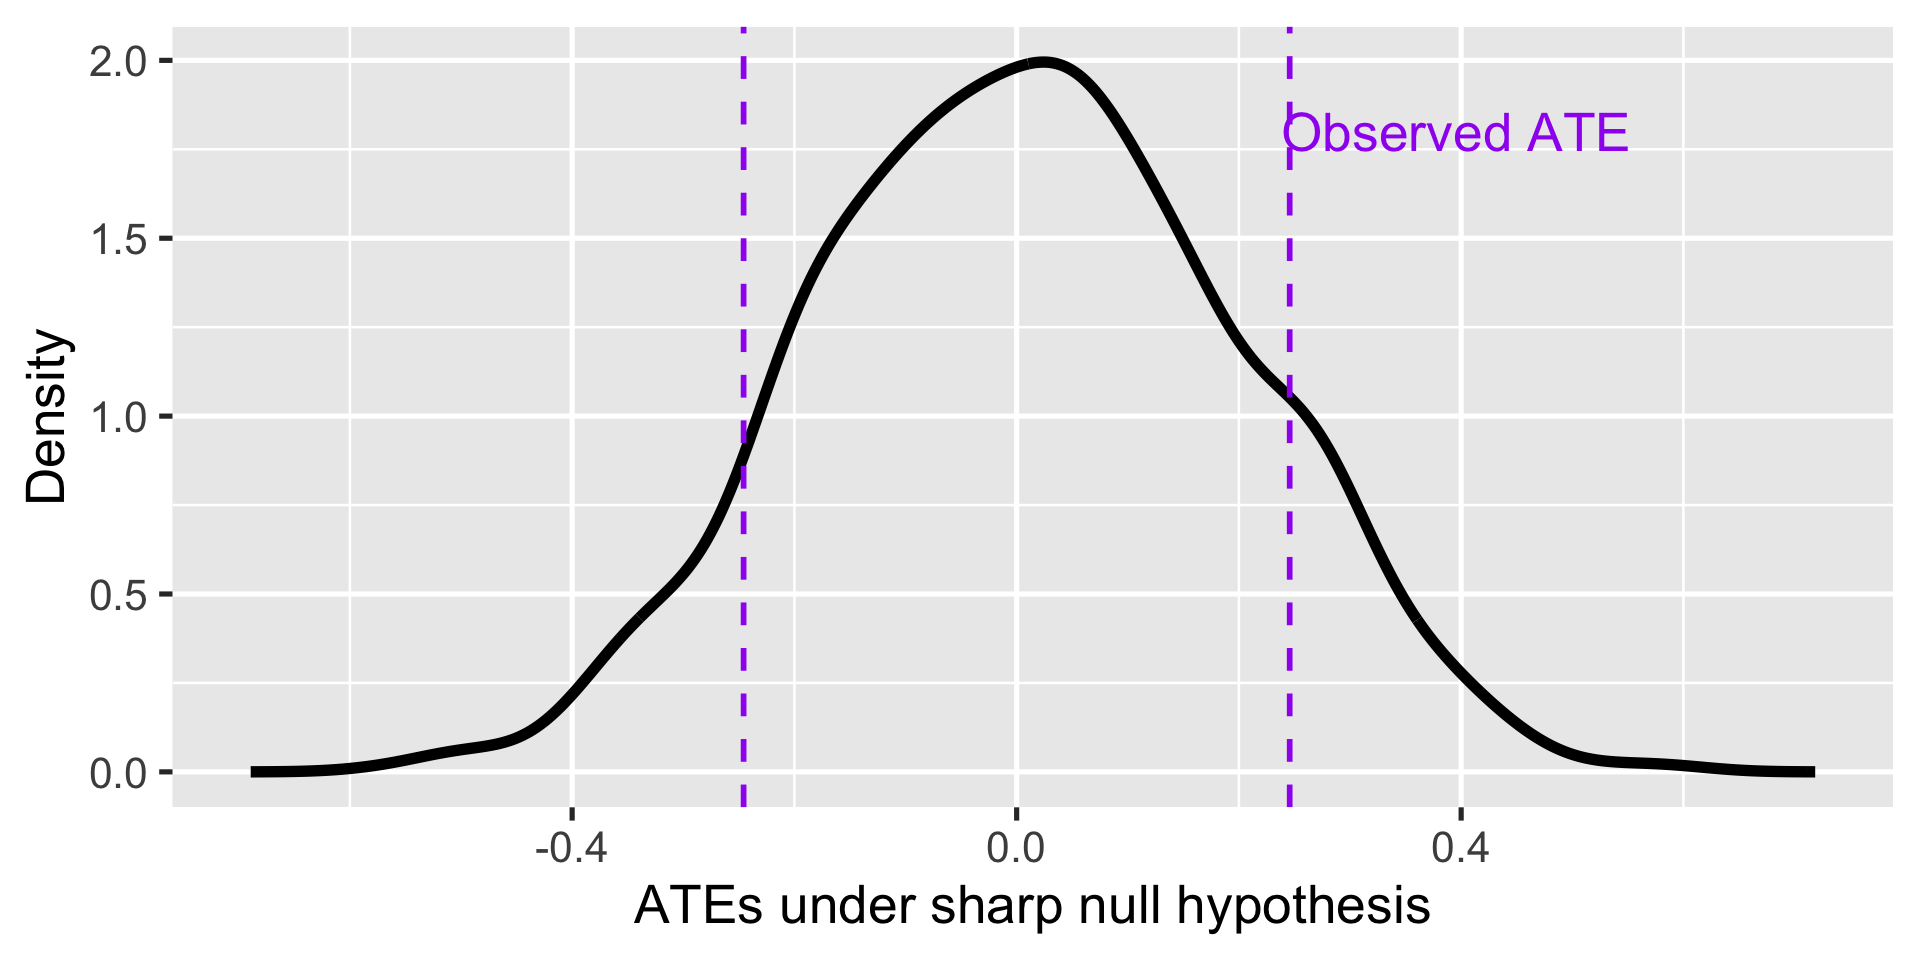
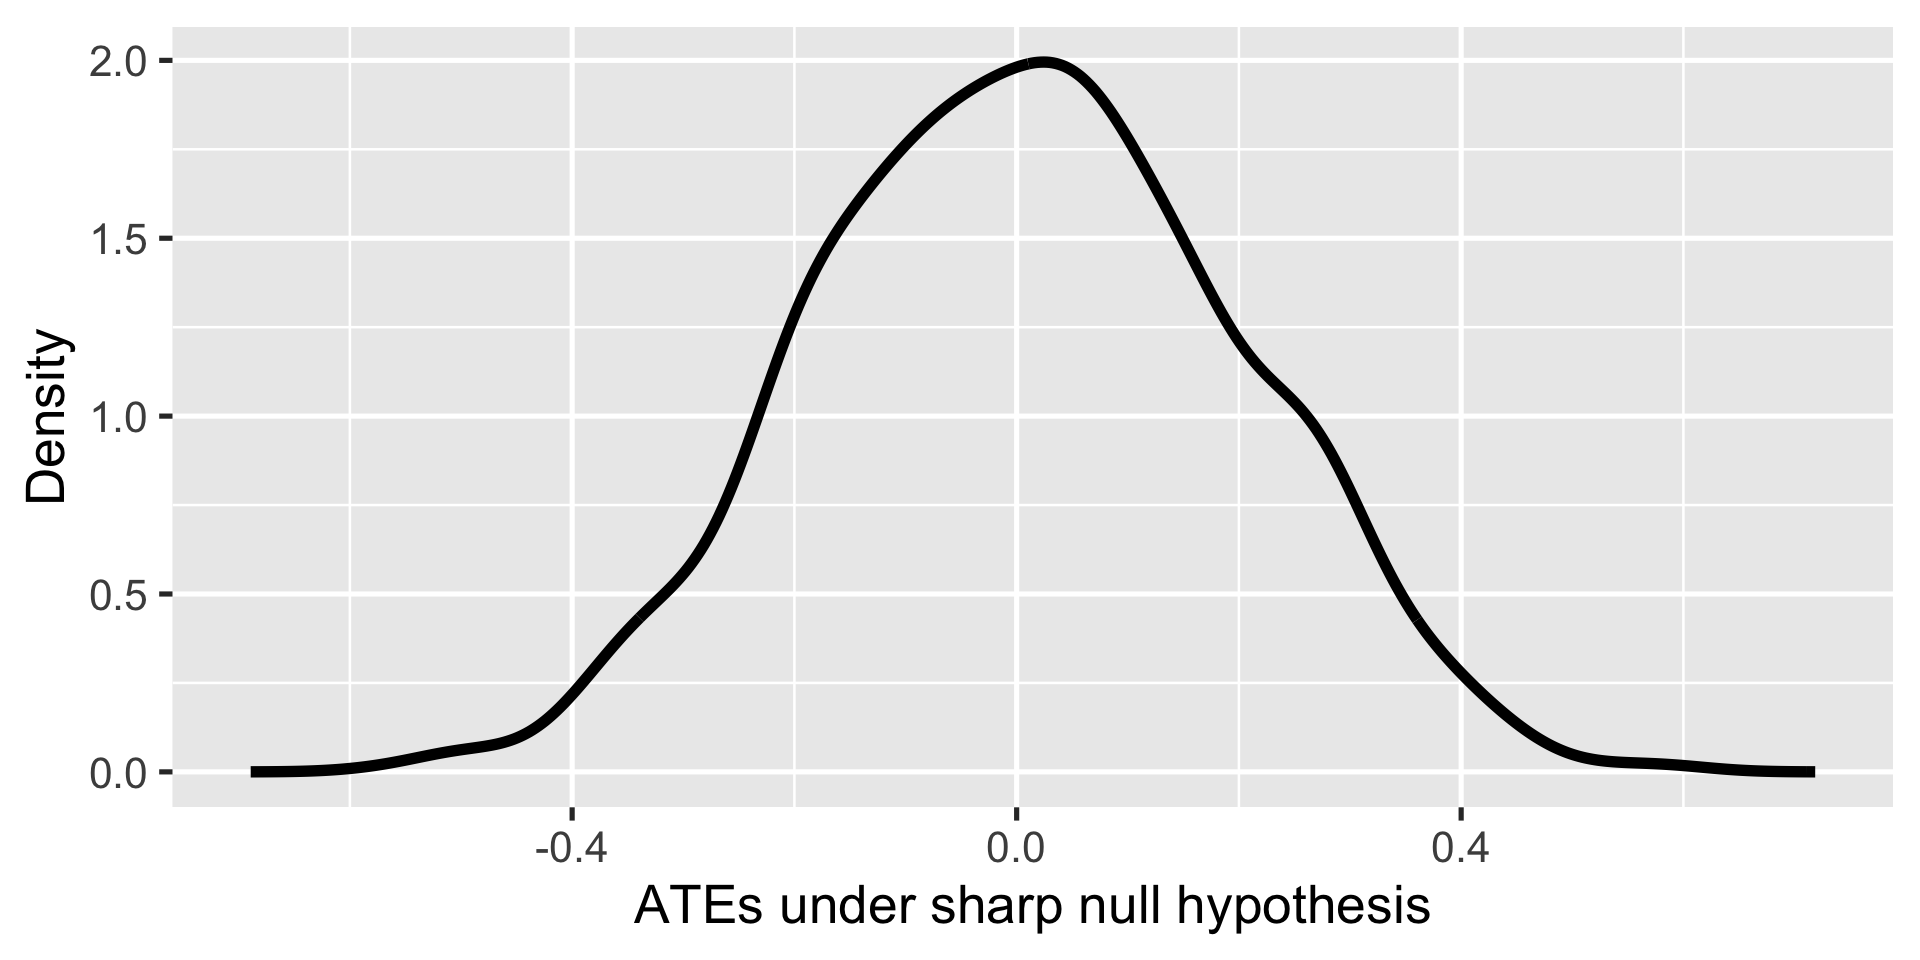
W9 slides ready

Changed region(s): [[0.6562, 0.0938, 0.8438, 0.1562]]

diff --git a/slides/week9.html b/slides/week9.html
@@ -234,7 +234,7 @@
 <li>Random assignment</li>
 <li>Observational studies</li>
 <li>Quasi-experiments (if we have time)</li>
-<li>Lab</li>
+<li><strong>Lab:</strong> Causal inference in experiments vs.&nbsp;observational studies</li>
 </ul>
 </section>
 
@@ -465,84 +465,63 @@ Unobserved
 </table>
 </div>
 </div>
-<div class="fragment">
-<p>Assign condition <span class="math inline">\(D_i\)</span> (0: control, 1: treatment)</p>
-</div>
 </section>
 <section id="challenge-2" class="slide level2">
 <h2>Challenge</h2>
 <div class="cell">
 <div class="cell-output-display">
-<table class="caption-top" style="width:100%;">
+<table class="caption-top">
 <colgroup>
-<col style="width: 16%">
-<col style="width: 16%">
-<col style="width: 16%">
-<col style="width: 16%">
-<col style="width: 16%">
-<col style="width: 16%">
+<col style="width: 25%">
+<col style="width: 25%">
+<col style="width: 25%">
+<col style="width: 25%">
 </colgroup>
 <thead>
 <tr class="header">
 <th data-quarto-table-cell-role="th" style="text-align: left; empty-cells: hide; border-bottom: hidden;"></th>
 <th colspan="3" data-quarto-table-cell-role="th" style="text-align: center; border-bottom: hidden; padding-bottom: 0; padding-left: 3px; padding-right: 3px;"><div style="border-bottom: 1px solid #ddd; padding-bottom: 5px; ">
-Unobserved
-</div></th>
-<th colspan="2" data-quarto-table-cell-role="th" style="text-align: center; border-bottom: hidden; padding-bottom: 0; padding-left: 3px; padding-right: 3px;"><div style="border-bottom: 1px solid #ddd; padding-bottom: 5px; ">
-Observed
+<span style="color:gray">Unobserved</span>
 </div></th>
 </tr>
 <tr class="even">
 <th style="text-align: left;" data-quarto-table-cell-role="th">ID</th>
-<th style="text-align: right;" data-quarto-table-cell-role="th">\(Y_i(1)\)</th>
-<th style="text-align: right;" data-quarto-table-cell-role="th">\(Y_i(0)\)</th>
-<th style="text-align: right;" data-quarto-table-cell-role="th">\(\tau_i\)</th>
-<th style="text-align: right;" data-quarto-table-cell-role="th">\(D_i\)</th>
-<th style="text-align: right;" data-quarto-table-cell-role="th">\(Y_i\)</th>
+<th style="text-align: left;" data-quarto-table-cell-role="th"><span style="     color: gray !important;">\(Y_i(1)\)</span></th>
+<th style="text-align: left;" data-quarto-table-cell-role="th"><span style="     color: gray !important;">\(Y_i(0)\)</span></th>
+<th style="text-align: left;" data-quarto-table-cell-role="th"><span style="     color: gray !important;">\(\tau_i\)</span></th>
 </tr>
 </thead>
 <tbody>
 <tr class="odd">
 <td style="text-align: left;">1</td>
-<td style="text-align: right;">0</td>
-<td style="text-align: right;">0</td>
-<td style="text-align: right;">0</td>
-<td style="text-align: right;">1</td>
-<td style="text-align: right;">0</td>
+<td style="text-align: left;"><span style="     color: gray !important;">0</span></td>
+<td style="text-align: left;"><span style="     color: gray !important;">0</span></td>
+<td style="text-align: left;"><span style="     color: gray !important;">0</span></td>
 </tr>
 <tr class="even">
 <td style="text-align: left;">2</td>
-<td style="text-align: right;">1</td>
-<td style="text-align: right;">0</td>
-<td style="text-align: right;">1</td>
-<td style="text-align: right;">0</td>
-<td style="text-align: right;">0</td>
+<td style="text-align: left;"><span style="     color: gray !important;">1</span></td>
+<td style="text-align: left;"><span style="     color: gray !important;">0</span></td>
+<td style="text-align: left;"><span style="     color: gray !important;">1</span></td>
 </tr>
 <tr class="odd">
 <td style="text-align: left;">3</td>
-<td style="text-align: right;">1</td>
-<td style="text-align: right;">0</td>
-<td style="text-align: right;">1</td>
-<td style="text-align: right;">1</td>
-<td style="text-align: right;">1</td>
+<td style="text-align: left;"><span style="     color: gray !important;">1</span></td>
+<td style="text-align: left;"><span style="     color: gray !important;">0</span></td>
+<td style="text-align: left;"><span style="     color: gray !important;">1</span></td>
 </tr>
 <tr class="even">
 <td style="text-align: left;">4</td>
-<td style="text-align: right;">1</td>
-<td style="text-align: right;">1</td>
-<td style="text-align: right;">0</td>
-<td style="text-align: right;">0</td>
-<td style="text-align: right;">1</td>
+<td style="text-align: left;"><span style="     color: gray !important;">1</span></td>
+<td style="text-align: left;"><span style="     color: gray !important;">1</span></td>
+<td style="text-align: left;"><span style="     color: gray !important;">0</span></td>
 </tr>
 </tbody>
 </table>
 </div>
 </div>
 <div class="fragment">
-<p>To know <span class="math inline">\(E[\tau_i]\)</span> we need <span class="math inline">\((Y_i(1) - Y_i(0))\)</span></p>
-</div>
-<div class="fragment">
-<p>But we only observe one at a time for each unit</p>
+<p>Assign condition <span class="math inline">\(D_i\)</span> (0: control, 1: treatment)</p>
 </div>
 </section>
 <section id="challenge-3" class="slide level2">
@@ -562,7 +541,7 @@ Observed
 <tr class="header">
 <th data-quarto-table-cell-role="th" style="text-align: left; empty-cells: hide; border-bottom: hidden;"></th>
 <th colspan="3" data-quarto-table-cell-role="th" style="text-align: center; border-bottom: hidden; padding-bottom: 0; padding-left: 3px; padding-right: 3px;"><div style="border-bottom: 1px solid #ddd; padding-bottom: 5px; ">
-Unobserved
+<span style="color:gray">Unobserved</span>
 </div></th>
 <th colspan="2" data-quarto-table-cell-role="th" style="text-align: center; border-bottom: hidden; padding-bottom: 0; padding-left: 3px; padding-right: 3px;"><div style="border-bottom: 1px solid #ddd; padding-bottom: 5px; ">
 Observed
@@ -570,9 +549,9 @@ Observed
 </tr>
 <tr class="even">
 <th style="text-align: left;" data-quarto-table-cell-role="th">ID</th>
-<th style="text-align: right;" data-quarto-table-cell-role="th">\(Y_i(1)\)</th>
-<th style="text-align: right;" data-quarto-table-cell-role="th">\(Y_i(0)\)</th>
-<th style="text-align: right;" data-quarto-table-cell-role="th">\(\tau_i\)</th>
+<th style="text-align: left;" data-quarto-table-cell-role="th"><span style="     color: gray !important;">\(Y_i(1)\)</span></th>
+<th style="text-align: left;" data-quarto-table-cell-role="th"><span style="     color: gray !important;">\(Y_i(0)\)</span></th>
+<th style="text-align: left;" data-quarto-table-cell-role="th"><span style="     color: gray !important;">\(\tau_i\)</span></th>
 <th style="text-align: right;" data-quarto-table-cell-role="th">\(D_i\)</th>
 <th style="text-align: right;" data-quarto-table-cell-role="th">\(Y_i\)</th>
 </tr>
@@ -580,33 +559,33 @@ Observed
 <tbody>
 <tr class="odd">
 <td style="text-align: left;">1</td>
-<td style="text-align: right;">0</td>
-<td style="text-align: right;">0</td>
-<td style="text-align: right;">0</td>
+<td style="text-align: left;"><span style="     color: gray !important;">0</span></td>
+<td style="text-align: left;"><span style="     color: gray !important;">0</span></td>
+<td style="text-align: left;"><span style="     color: gray !important;">0</span></td>
 <td style="text-align: right;">1</td>
 <td style="text-align: right;">0</td>
 </tr>
 <tr class="even">
 <td style="text-align: left;">2</td>
-<td style="text-align: right;">1</td>
-<td style="text-align: right;">0</td>
-<td style="text-align: right;">1</td>
+<td style="text-align: left;"><span style="     color: gray !important;">1</span></td>
+<td style="text-align: left;"><span style="     color: gray !important;">0</span></td>
+<td style="text-align: left;"><span style="     color: gray !important;">1</span></td>
 <td style="text-align: right;">0</td>
 <td style="text-align: right;">0</td>
 </tr>
 <tr class="odd">
 <td style="text-align: left;">3</td>
-<td style="text-align: right;">1</td>
-<td style="text-align: right;">0</td>
-<td style="text-align: right;">1</td>
+<td style="text-align: left;"><span style="     color: gray !important;">1</span></td>
+<td style="text-align: left;"><span style="     color: gray !important;">0</span></td>
+<td style="text-align: left;"><span style="     color: gray !important;">1</span></td>
 <td style="text-align: right;">1</td>
 <td style="text-align: right;">1</td>
 </tr>
 <tr class="even">
 <td style="text-align: left;">4</td>
-<td style="text-align: right;">1</td>
-<td style="text-align: right;">1</td>
-<td style="text-align: right;">0</td>
+<td style="text-align: left;"><span style="     color: gray !important;">1</span></td>
+<td style="text-align: left;"><span style="     color: gray !important;">1</span></td>
+<td style="text-align: left;"><span style="     color: gray !important;">0</span></td>
 <td style="text-align: right;">0</td>
 <td style="text-align: right;">1</td>
 </tr>
@@ -614,11 +593,13 @@ Observed
 </table>
 </div>
 </div>
-<p>This is the <strong>FUNDAMENTAL PROBLEM OF CAUSAL INFERENCE</strong></p>
-
-<aside><div>
-<p>The term comes from: Holland, Paul W. 1986. <a href="https://doi.org/10.2307/2289064">“Statistics and Causal Inference.”</a> <em>Journal of the American Statistical Association</em> 81 (396): 945-960</p>
-</div></aside></section>
+<div class="fragment">
+<p>To know <span class="math inline">\(E[\tau_i]\)</span> we need <span class="math inline">\((Y_i(1) - Y_i(0))\)</span></p>
+</div>
+<div class="fragment">
+<p>But we only observe one at a time for each unit</p>
+</div>
+</section>
 <section id="challenge-4" class="slide level2">
 <h2>Challenge</h2>
 <div class="cell">
@@ -636,7 +617,7 @@ Observed
 <tr class="header">
 <th data-quarto-table-cell-role="th" style="text-align: left; empty-cells: hide; border-bottom: hidden;"></th>
 <th colspan="3" data-quarto-table-cell-role="th" style="text-align: center; border-bottom: hidden; padding-bottom: 0; padding-left: 3px; padding-right: 3px;"><div style="border-bottom: 1px solid #ddd; padding-bottom: 5px; ">
-Unobserved
+<span style="color:gray">Unobserved</span>
 </div></th>
 <th colspan="2" data-quarto-table-cell-role="th" style="text-align: center; border-bottom: hidden; padding-bottom: 0; padding-left: 3px; padding-right: 3px;"><div style="border-bottom: 1px solid #ddd; padding-bottom: 5px; ">
 Observed
@@ -644,9 +625,9 @@ Observed
 </tr>
 <tr class="even">
 <th style="text-align: left;" data-quarto-table-cell-role="th">ID</th>
-<th style="text-align: right;" data-quarto-table-cell-role="th">\(Y_i(1)\)</th>
-<th style="text-align: right;" data-quarto-table-cell-role="th">\(Y_i(0)\)</th>
-<th style="text-align: right;" data-quarto-table-cell-role="th">\(\tau_i\)</th>
+<th style="text-align: left;" data-quarto-table-cell-role="th"><span style="     color: gray !important;">\(Y_i(1)\)</span></th>
+<th style="text-align: left;" data-quarto-table-cell-role="th"><span style="     color: gray !important;">\(Y_i(0)\)</span></th>
+<th style="text-align: left;" data-quarto-table-cell-role="th"><span style="     color: gray !important;">\(\tau_i\)</span></th>
 <th style="text-align: right;" data-quarto-table-cell-role="th">\(D_i\)</th>
 <th style="text-align: right;" data-quarto-table-cell-role="th">\(Y_i\)</th>
 </tr>
@@ -654,33 +635,107 @@ Observed
 <tbody>
 <tr class="odd">
 <td style="text-align: left;">1</td>
-<td style="text-align: right;">0</td>
-<td style="text-align: right;">0</td>
-<td style="text-align: right;">0</td>
+<td style="text-align: left;"><span style="     color: gray !important;">0</span></td>
+<td style="text-align: left;"><span style="     color: gray !important;">0</span></td>
+<td style="text-align: left;"><span style="     color: gray !important;">0</span></td>
 <td style="text-align: right;">1</td>
 <td style="text-align: right;">0</td>
 </tr>
 <tr class="even">
 <td style="text-align: left;">2</td>
-<td style="text-align: right;">1</td>
-<td style="text-align: right;">0</td>
-<td style="text-align: right;">1</td>
+<td style="text-align: left;"><span style="     color: gray !important;">1</span></td>
+<td style="text-align: left;"><span style="     color: gray !important;">0</span></td>
+<td style="text-align: left;"><span style="     color: gray !important;">1</span></td>
 <td style="text-align: right;">0</td>
 <td style="text-align: right;">0</td>
 </tr>
 <tr class="odd">
 <td style="text-align: left;">3</td>
-<td style="text-align: right;">1</td>
-<td style="text-align: right;">0</td>
-<td style="text-align: right;">1</td>
+<td style="text-align: left;"><span style="     color: gray !important;">1</span></td>
+<td style="text-align: left;"><span style="     color: gray !important;">0</span></td>
+<td style="text-align: left;"><span style="     color: gray !important;">1</span></td>
 <td style="text-align: right;">1</td>
 <td style="text-align: right;">1</td>
 </tr>
 <tr class="even">
 <td style="text-align: left;">4</td>
+<td style="text-align: left;"><span style="     color: gray !important;">1</span></td>
+<td style="text-align: left;"><span style="     color: gray !important;">1</span></td>
+<td style="text-align: left;"><span style="     color: gray !important;">0</span></td>
+<td style="text-align: right;">0</td>
 <td style="text-align: right;">1</td>
+</tr>
+</tbody>
+</table>
+</div>
+</div>
+<p>This is the <strong>FUNDAMENTAL PROBLEM OF CAUSAL INFERENCE</strong></p>
+
+<aside><div>
+<p>The term comes from: Holland, Paul W. 1986. <a href="https://doi.org/10.2307/2289064">“Statistics and Causal Inference.”</a> <em>Journal of the American Statistical Association</em> 81 (396): 945-960</p>
+</div></aside></section>
+<section id="challenge-5" class="slide level2">
+<h2>Challenge</h2>
+<div class="cell">
+<div class="cell-output-display">
+<table class="caption-top" style="width:100%;">
+<colgroup>
+<col style="width: 16%">
+<col style="width: 16%">
+<col style="width: 16%">
+<col style="width: 16%">
+<col style="width: 16%">
+<col style="width: 16%">
+</colgroup>
+<thead>
+<tr class="header">
+<th data-quarto-table-cell-role="th" style="text-align: left; empty-cells: hide; border-bottom: hidden;"></th>
+<th colspan="3" data-quarto-table-cell-role="th" style="text-align: center; border-bottom: hidden; padding-bottom: 0; padding-left: 3px; padding-right: 3px;"><div style="border-bottom: 1px solid #ddd; padding-bottom: 5px; ">
+<span style="color:gray">Unobserved</span>
+</div></th>
+<th colspan="2" data-quarto-table-cell-role="th" style="text-align: center; border-bottom: hidden; padding-bottom: 0; padding-left: 3px; padding-right: 3px;"><div style="border-bottom: 1px solid #ddd; padding-bottom: 5px; ">
+Observed
+</div></th>
+</tr>
+<tr class="even">
+<th style="text-align: left;" data-quarto-table-cell-role="th">ID</th>
+<th style="text-align: left;" data-quarto-table-cell-role="th"><span style="     color: gray !important;">\(Y_i(1)\)</span></th>
+<th style="text-align: left;" data-quarto-table-cell-role="th"><span style="     color: gray !important;">\(Y_i(0)\)</span></th>
+<th style="text-align: left;" data-quarto-table-cell-role="th"><span style="     color: gray !important;">\(\tau_i\)</span></th>
+<th style="text-align: right;" data-quarto-table-cell-role="th">\(D_i\)</th>
+<th style="text-align: right;" data-quarto-table-cell-role="th">\(Y_i\)</th>
+</tr>
+</thead>
+<tbody>
+<tr class="odd">
+<td style="text-align: left;">1</td>
+<td style="text-align: left;"><span style="     color: gray !important;">0</span></td>
+<td style="text-align: left;"><span style="     color: gray !important;">0</span></td>
+<td style="text-align: left;"><span style="     color: gray !important;">0</span></td>
 <td style="text-align: right;">1</td>
 <td style="text-align: right;">0</td>
+</tr>
+<tr class="even">
+<td style="text-align: left;">2</td>
+<td style="text-align: left;"><span style="     color: gray !important;">1</span></td>
+<td style="text-align: left;"><span style="     color: gray !important;">0</span></td>
+<td style="text-align: left;"><span style="     color: gray !important;">1</span></td>
+<td style="text-align: right;">0</td>
+<td style="text-align: right;">0</td>
+</tr>
+<tr class="odd">
+<td style="text-align: left;">3</td>
+<td style="text-align: left;"><span style="     color: gray !important;">1</span></td>
+<td style="text-align: left;"><span style="     color: gray !important;">0</span></td>
+<td style="text-align: left;"><span style="     color: gray !important;">1</span></td>
+<td style="text-align: right;">1</td>
+<td style="text-align: right;">1</td>
+</tr>
+<tr class="even">
+<td style="text-align: left;">4</td>
+<td style="text-align: left;"><span style="     color: gray !important;">1</span></td>
+<td style="text-align: left;"><span style="     color: gray !important;">1</span></td>
+<td style="text-align: left;"><span style="     color: gray !important;">0</span></td>
 <td style="text-align: right;">0</td>
 <td style="text-align: right;">1</td>
 </tr>
@@ -2996,19 +3051,19 @@ E[\color{purple}{Y_i(1)} | D_i = 1] - E[Y_i(0) | D_i = 0]
 <section id="visualize" class="slide level2">
 <h2>Visualize</h2>
 
-<img data-src="week9_files/figure-revealjs/unnamed-chunk-14-1.png" data-fig-pos="center" width="960" class="r-stretch"></section>
+<img data-src="week9_files/figure-revealjs/unnamed-chunk-15-1.png" data-fig-pos="center" width="960" class="r-stretch"></section>
 <section id="visualize-1" class="slide level2">
 <h2>Visualize</h2>
 
-<img data-src="week9_files/figure-revealjs/unnamed-chunk-15-1.png" data-fig-pos="center" width="960" class="r-stretch"></section>
+<img data-src="week9_files/figure-revealjs/unnamed-chunk-16-1.png" data-fig-pos="center" width="960" class="r-stretch"></section>
 <section id="visualize-2" class="slide level2">
 <h2>Visualize</h2>
 
-<img data-src="week9_files/figure-revealjs/unnamed-chunk-16-1.png" data-fig-pos="center" width="960" class="r-stretch"></section>
+<img data-src="week9_files/figure-revealjs/unnamed-chunk-17-1.png" data-fig-pos="center" width="960" class="r-stretch"></section>
 <section id="visualize-3" class="slide level2">
 <h2>Visualize</h2>
 
-<img data-src="week9_files/figure-revealjs/unnamed-chunk-17-1.png" data-fig-pos="center" width="960" class="r-stretch"><div class="cell">
+<img data-src="week9_files/figure-revealjs/unnamed-chunk-18-1.png" data-fig-pos="center" width="960" class="r-stretch"><div class="cell">
 <div class="code-copy-outer-scaffold"><div class="sourceCode cell-code" id="cb6"><pre class="sourceCode numberSource r number-lines code-with-copy"><code class="sourceCode r"><span id="cb6-1"><a href=""></a><span class="fu">mean</span>(<span class="fu">abs</span>(null_df<span class="sc">$</span>estimate) <span class="sc">&gt;=</span> <span class="fu">abs</span>(obs))</span></code></pre></div><button title="Copy to Clipboard" class="code-copy-button"><i class="bi"></i></button></div>
 <div class="cell-output cell-output-stdout">
 <pre><code>[1] 0.2</code></pre>
